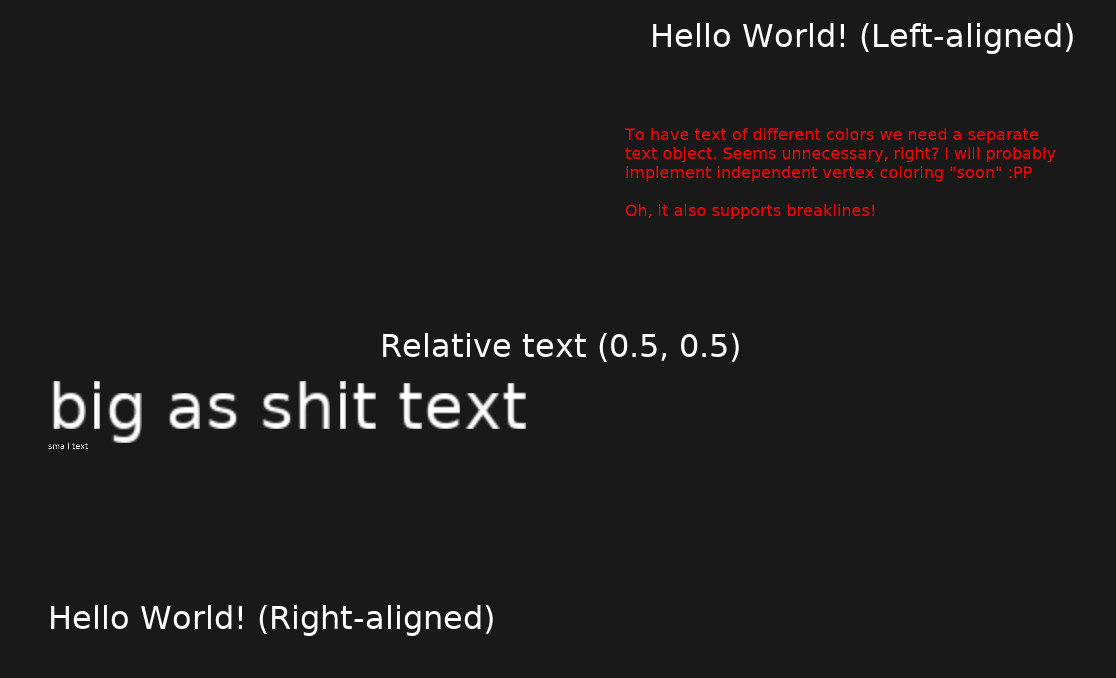
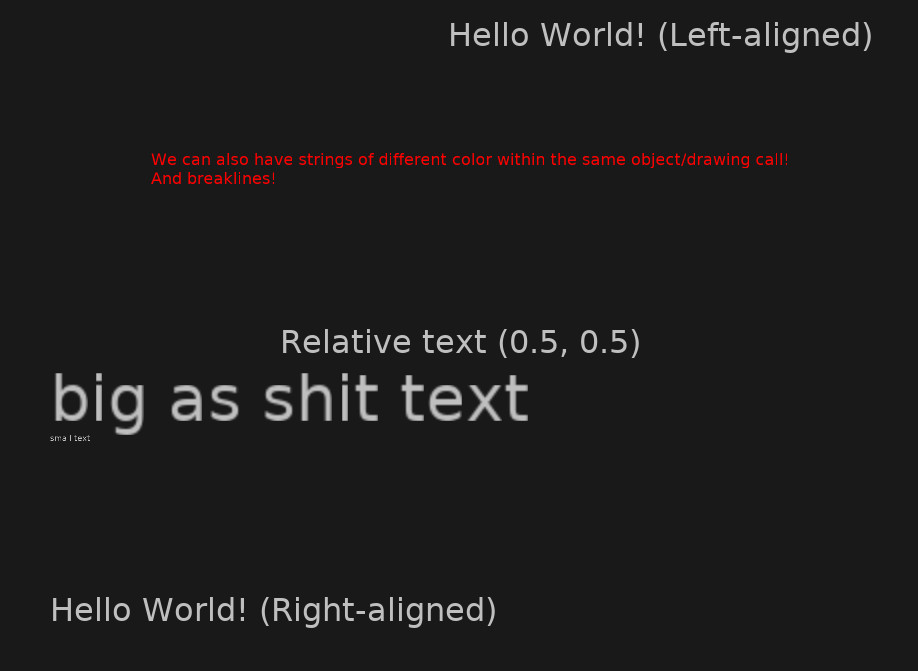
updated readme

diff --git a/example/main.cpp b/example/main.cpp
@@ -148,7 +148,8 @@ int main(int argc, char* argv[]){
                    STRING_DRAW_ABSOLUTE_BL, STRING_ALIGN_RIGHT, nice_white);
     text.addString(L"small text", 50., 230., 0.25,
                    STRING_DRAW_ABSOLUTE_BL, STRING_ALIGN_RIGHT, nice_white);
-    text.addString(L"We can also have strings of different color within the same object!\n"
+    text.addString(L"We can also have strings of different color within "
+                    "the same object/drawing call!\n"
                     "And breaklines!", 0.5, 0.75, 0.5,
                     STRING_ALIGN_CENTER_XY, red);
 

diff --git a/README.md b/README.md
@@ -12,7 +12,8 @@ atlas information to create the vertex, index and texture buffers. Under the fol
 
 You can render as many strings as you want with a single drawing call (numerically, we're limited by the number of indices in the index buffer because
 it uses GL_UNSIGNED_SHORT, but switching to GL_INT or  GL_UNSIGNED_INT should increase this limit). Each Text2D instance can hold different strings
-of different sizes and positions. We can't, however, have two strings in the same Text2D instance with different colors, this is still missing.
+of different sizes and positions. We can also have differently colored strings within the same object. We can't have differently colored words in the
+same string, maybe some day I will implement that.
 
 This code will probably not integrate very well with your project, I'd recommend writing your own implementation and use this code as a guide. Or you could
 just use a separate library but where's the fun in that?
